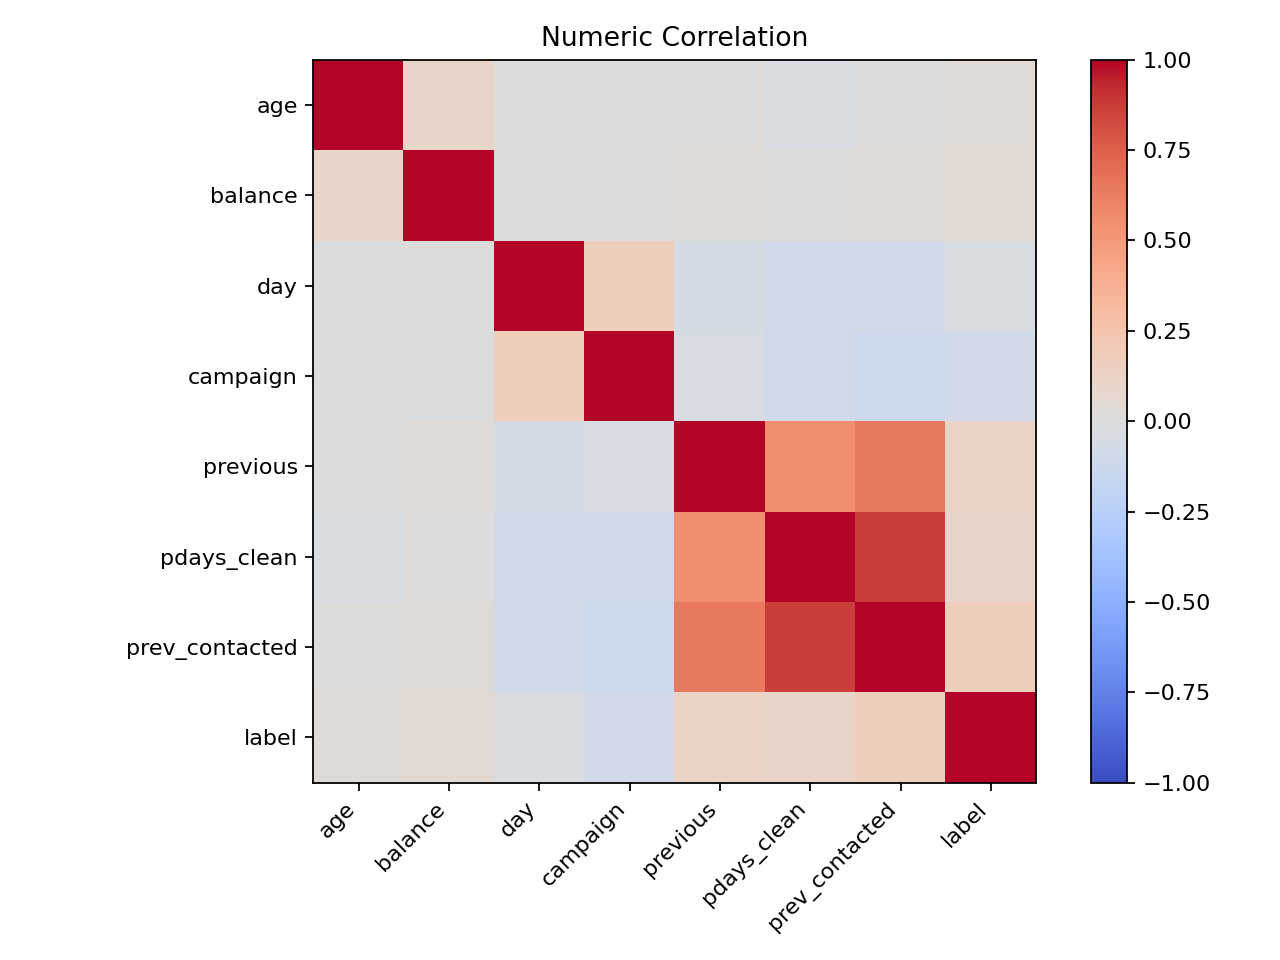
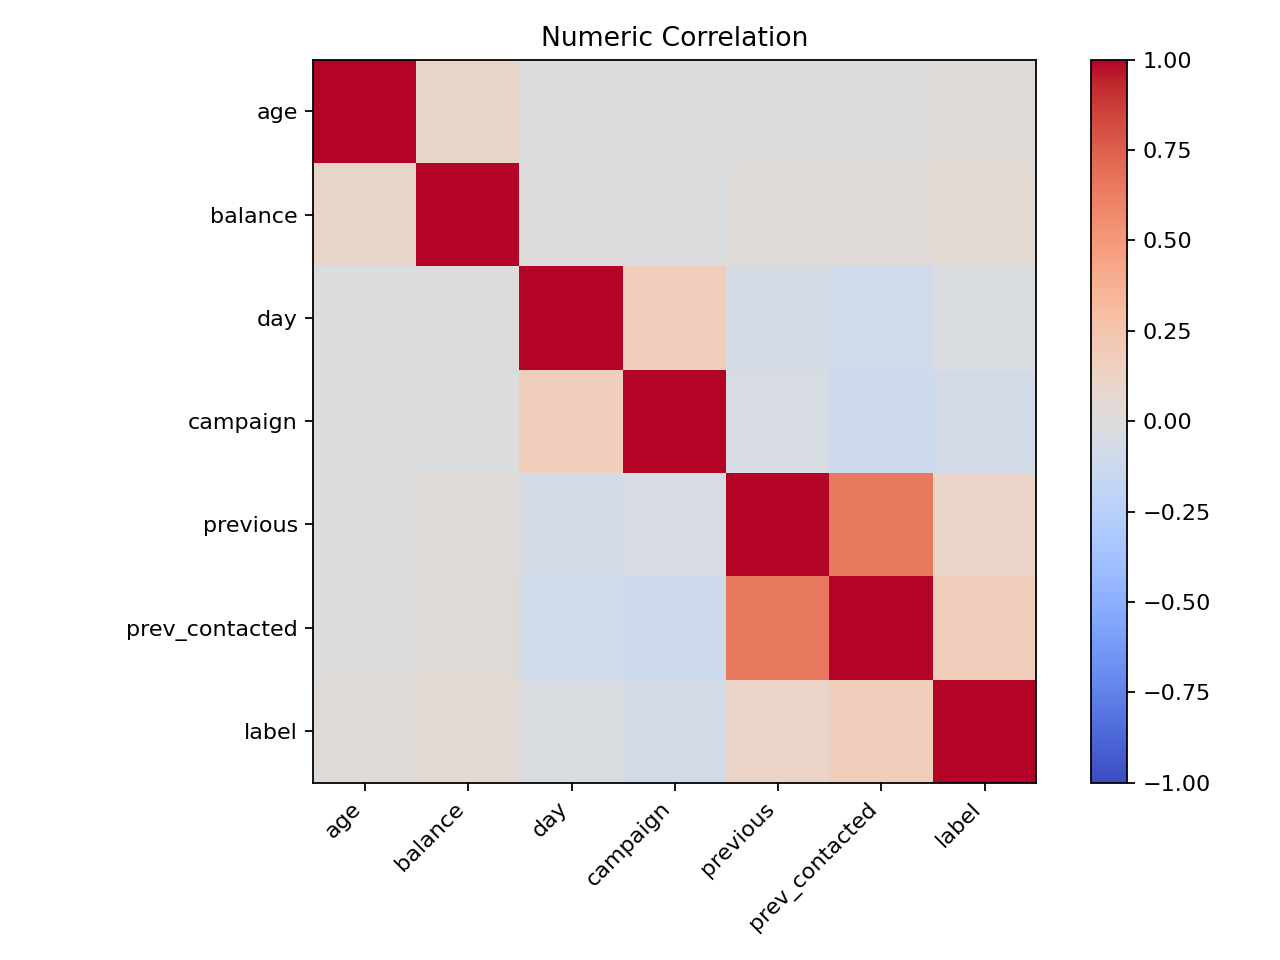
Add train

diff --git a/train.py b/train.py
@@ -2,12 +2,11 @@ from __future__ import annotations
 
 import argparse
 import json
-from datetime import datetime
+from datetime import datetime, timezone
 from pathlib import Path
 from typing import Dict, List
 
 from pyspark.ml import Pipeline
-from pyspark.ml.attribute import AttributeGroup
 from pyspark.ml.classification import (
     DecisionTreeClassificationModel,
     GBTClassificationModel,
@@ -17,7 +16,7 @@ from pyspark.ml.classification import (
     RandomForestClassificationModel,
     RandomForestClassifier,
 )
-from pyspark.ml.evaluation import BinaryClassificationEvaluator
+from pyspark.ml.evaluation import BinaryClassificationEvaluator, MulticlassClassificationEvaluator
 from pyspark.ml.feature import OneHotEncoder, StandardScaler, StringIndexer, VectorAssembler
 from pyspark.ml.tuning import CrossValidator, ParamGridBuilder
 from pyspark.mllib.evaluation import MulticlassMetrics
@@ -95,23 +94,6 @@ def plot_confusion_matrix(pred_df: DataFrame, report_dir: str) -> None:
     save_fig(Path(report_dir) / "confusion_matrix.png")
 
 
-def get_feature_names(pipeline_model, df: DataFrame) -> List[str]:
-    try:
-        sample = pipeline_model.transform(df.limit(1))
-        attrs = AttributeGroup.fromStructField(sample.schema["features"]).attributes
-        if attrs:
-            names = [a.name or f"f{i}" for i, a in enumerate(attrs)]
-            return names
-    except Exception:
-        pass
-
-    model = pipeline_model.stages[-1]
-    num_features = getattr(model, "numFeatures", None)
-    if num_features is None:
-        return []
-    return [f"f{i}" for i in range(num_features)]
-
-
 def plot_feature_importance(pipeline_model, df: DataFrame, report_dir: str) -> bool:
     import pandas as pd
     import matplotlib.pyplot as plt
@@ -126,11 +108,7 @@ def plot_feature_importance(pipeline_model, df: DataFrame, report_dir: str) -> b
         ),
     ):
         importances = model.featureImportances.toArray()
-        names = get_feature_names(pipeline_model, df)
-        if names and len(names) == len(importances):
-            labels = names
-        else:
-            labels = [f"f{i}" for i in range(len(importances))]
+        labels = [f"f{i}" for i in range(len(importances))]
 
         pdf = (
             pd.DataFrame({"feature": labels, "importance": importances})
@@ -159,6 +137,12 @@ def parse_args() -> argparse.Namespace:
     parser.add_argument("--artifacts-dir", default="artifacts", help="Artifacts output directory")
     parser.add_argument("--seed", type=int, default=DEFAULT_SEED, help="Random seed")
     parser.add_argument("--train-frac", type=float, default=0.8, help="Training fraction")
+    parser.add_argument(
+        "--pdays-features",
+        choices=["both", "drop_pdays_clean", "drop_prev_contacted"],
+        default="both",
+        help="Choose pdays feature set",
+    )
 
     def str2bool(v: str) -> bool:
         val = str(v).lower()
@@ -193,7 +177,7 @@ def main() -> None:
     df = clean_df(df_raw, keep_duration=args.keep_duration, include_label=True)
     df = df.withColumn("row_id", F.monotonically_increasing_id())
 
-    cat_cols, num_cols = get_feature_columns(args.keep_duration)
+    cat_cols, num_cols = get_feature_columns(args.keep_duration, args.pdays_features)
 
     fractions = {0: args.train_frac, 1: args.train_frac}
     train = df.sampleBy("label", fractions=fractions, seed=args.seed).cache()
@@ -224,8 +208,8 @@ def main() -> None:
         results.append({"name": name, "tuned": False, "metrics": metrics, "model": fitted})
         print(f"Baseline {name}: f1={metrics['f1']:.4f} auc={metrics['auc']:.4f}")
 
-    evaluator = BinaryClassificationEvaluator(
-        rawPredictionCol="rawPrediction", labelCol="label", metricName="areaUnderROC"
+    cv_evaluator = MulticlassClassificationEvaluator(
+        labelCol="label", predictionCol="prediction", metricName="f1"
     )
 
     tuned_specs = []
@@ -244,7 +228,7 @@ def main() -> None:
         cv = CrossValidator(
             estimator=pipeline,
             estimatorParamMaps=grid,
-            evaluator=evaluator,
+            evaluator=cv_evaluator,
             numFolds=3,
             parallelism=2,
             seed=args.seed,
@@ -289,9 +273,11 @@ def main() -> None:
         "tuned": best_result["tuned"],
         "metrics": best_result["metrics"],
         "keep_duration": bool(args.keep_duration),
+        "pdays_features": args.pdays_features,
+        "train_frac": args.train_frac,
         "categorical_cols": cat_cols,
         "numeric_cols": num_cols,
-        "generated_at": datetime.utcnow().isoformat() + "Z",
+        "generated_at": datetime.now(timezone.utc).isoformat(),
     }
     with open(Path(args.artifacts_dir) / "metadata.json", "w", encoding="utf-8") as f:
         json.dump(metadata, f, indent=2)

diff --git a/preprocess.py b/preprocess.py
@@ -1,7 +1,7 @@
 from __future__ import annotations
 
 import argparse
-from datetime import datetime
+from datetime import datetime, timezone
 from pathlib import Path
 from typing import Iterable, List, Tuple
 
@@ -87,7 +87,7 @@ def clean_df(df: DataFrame, keep_duration: bool, include_label: bool = True) -> 
     return df
 
 
-def get_feature_columns(keep_duration: bool) -> Tuple[List[str], List[str]]:
+def get_feature_columns(keep_duration: bool, pdays_features: str = "both") -> Tuple[List[str], List[str]]:
     num_cols = [
         "age",
         "balance",
@@ -97,6 +97,10 @@ def get_feature_columns(keep_duration: bool) -> Tuple[List[str], List[str]]:
         "pdays_clean",
         "prev_contacted",
     ]
+    if pdays_features == "drop_pdays_clean":
+        num_cols = [c for c in num_cols if c != "pdays_clean"]
+    elif pdays_features == "drop_prev_contacted":
+        num_cols = [c for c in num_cols if c != "prev_contacted"]
     if keep_duration:
         num_cols.append("duration")
     return CATEGORICAL_COLS, num_cols
@@ -146,7 +150,7 @@ def save_dataset_summary(df: DataFrame, report_dir: str, keep_duration: bool) ->
                 "rows": rows,
                 "cols": cols,
                 "keep_duration": bool(keep_duration),
-                "generated_at": datetime.utcnow().isoformat() + "Z",
+                "generated_at": datetime.now(timezone.utc).isoformat(),
             }
         ]
     )
@@ -221,6 +225,12 @@ def parse_args() -> argparse.Namespace:
     parser = argparse.ArgumentParser(description="Bank marketing EDA + preprocessing")
     parser.add_argument("--input", default="data/bank-full.csv", help="Input CSV path")
     parser.add_argument("--report-dir", default="report", help="Report output directory")
+    parser.add_argument(
+        "--pdays-features",
+        choices=["both", "drop_pdays_clean", "drop_prev_contacted"],
+        default="both",
+        help="Choose pdays feature set",
+    )
 
     def str2bool(v: str) -> bool:
         val = str(v).lower()
@@ -259,13 +269,13 @@ def main() -> None:
         hist_cols.append("duration")
     plot_histograms(df, args.report_dir, hist_cols)
 
-    _, num_cols = get_feature_columns(args.keep_duration)
+    _, num_cols = get_feature_columns(args.keep_duration, args.pdays_features)
     corr_cols = num_cols + ["label"]
     plot_corr_heatmap(df, args.report_dir, corr_cols)
 
     rows = df.count()
     print(
-        f"Saved report artifacts to {args.report_dir} | rows={rows} cols={len(df.columns)} keep_duration={args.keep_duration}"
+        f"Saved report artifacts to {args.report_dir} | rows={rows} cols={len(df.columns)} keep_duration={args.keep_duration} pdays_features={args.pdays_features}"
     )
 
     spark.stop()

diff --git a/stream_infer.py b/stream_infer.py
@@ -67,12 +67,16 @@ def main() -> None:
 
     metadata = load_metadata(str(artifacts_dir))
     keep_duration = None
+    pdays_features = None
     if metadata is not None:
         keep_duration = bool(metadata.get("keep_duration", False))
+        pdays_features = metadata.get("pdays_features")
     elif args.keep_duration is not None:
         keep_duration = bool(args.keep_duration)
     else:
         keep_duration = False
+
+    Path(args.checkpoint_dir).mkdir(parents=True, exist_ok=True)
 
     spark = SparkSession.builder.appName("bank-stream-infer").getOrCreate()
     spark.sparkContext.setLogLevel("WARN")
@@ -136,7 +140,7 @@ def main() -> None:
     )
 
     print(
-        f"Streaming from {args.input_topic} to {args.output_topic} | keep_duration={keep_duration} | model={model_path}"
+        f"Streaming from {args.input_topic} to {args.output_topic} | keep_duration={keep_duration} | pdays_features={pdays_features} | model={model_path}"
     )
 
     try:
